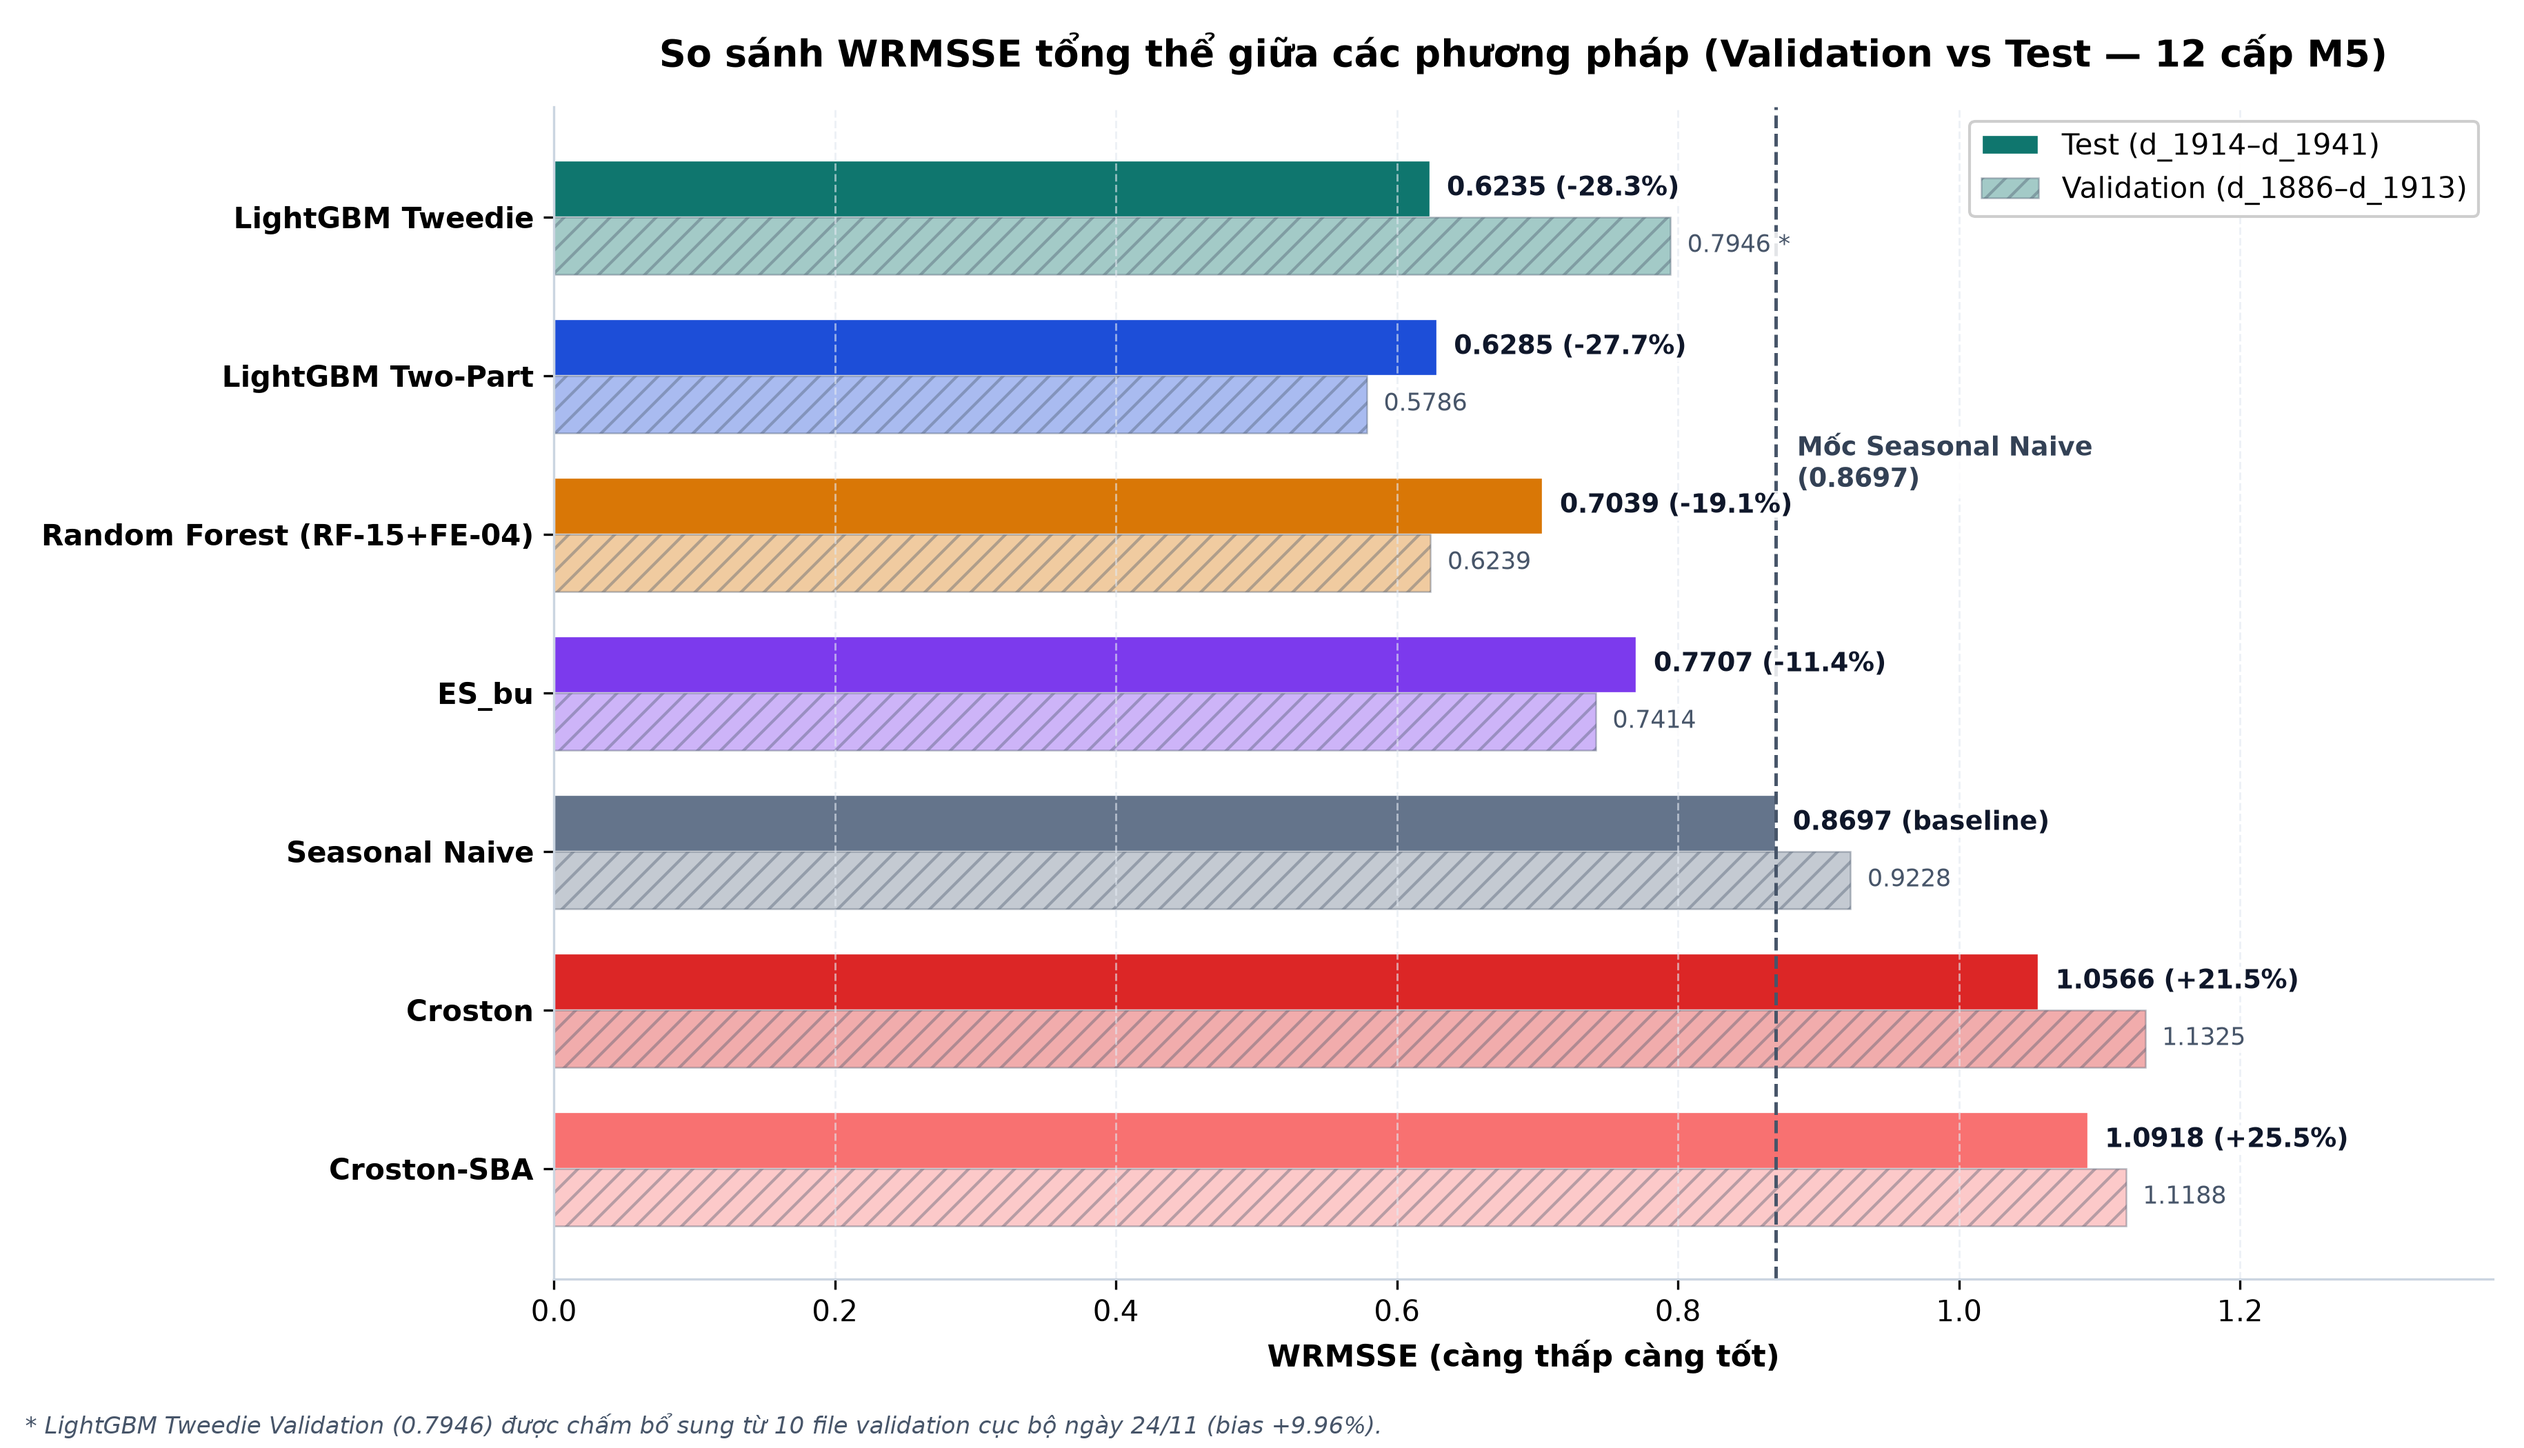
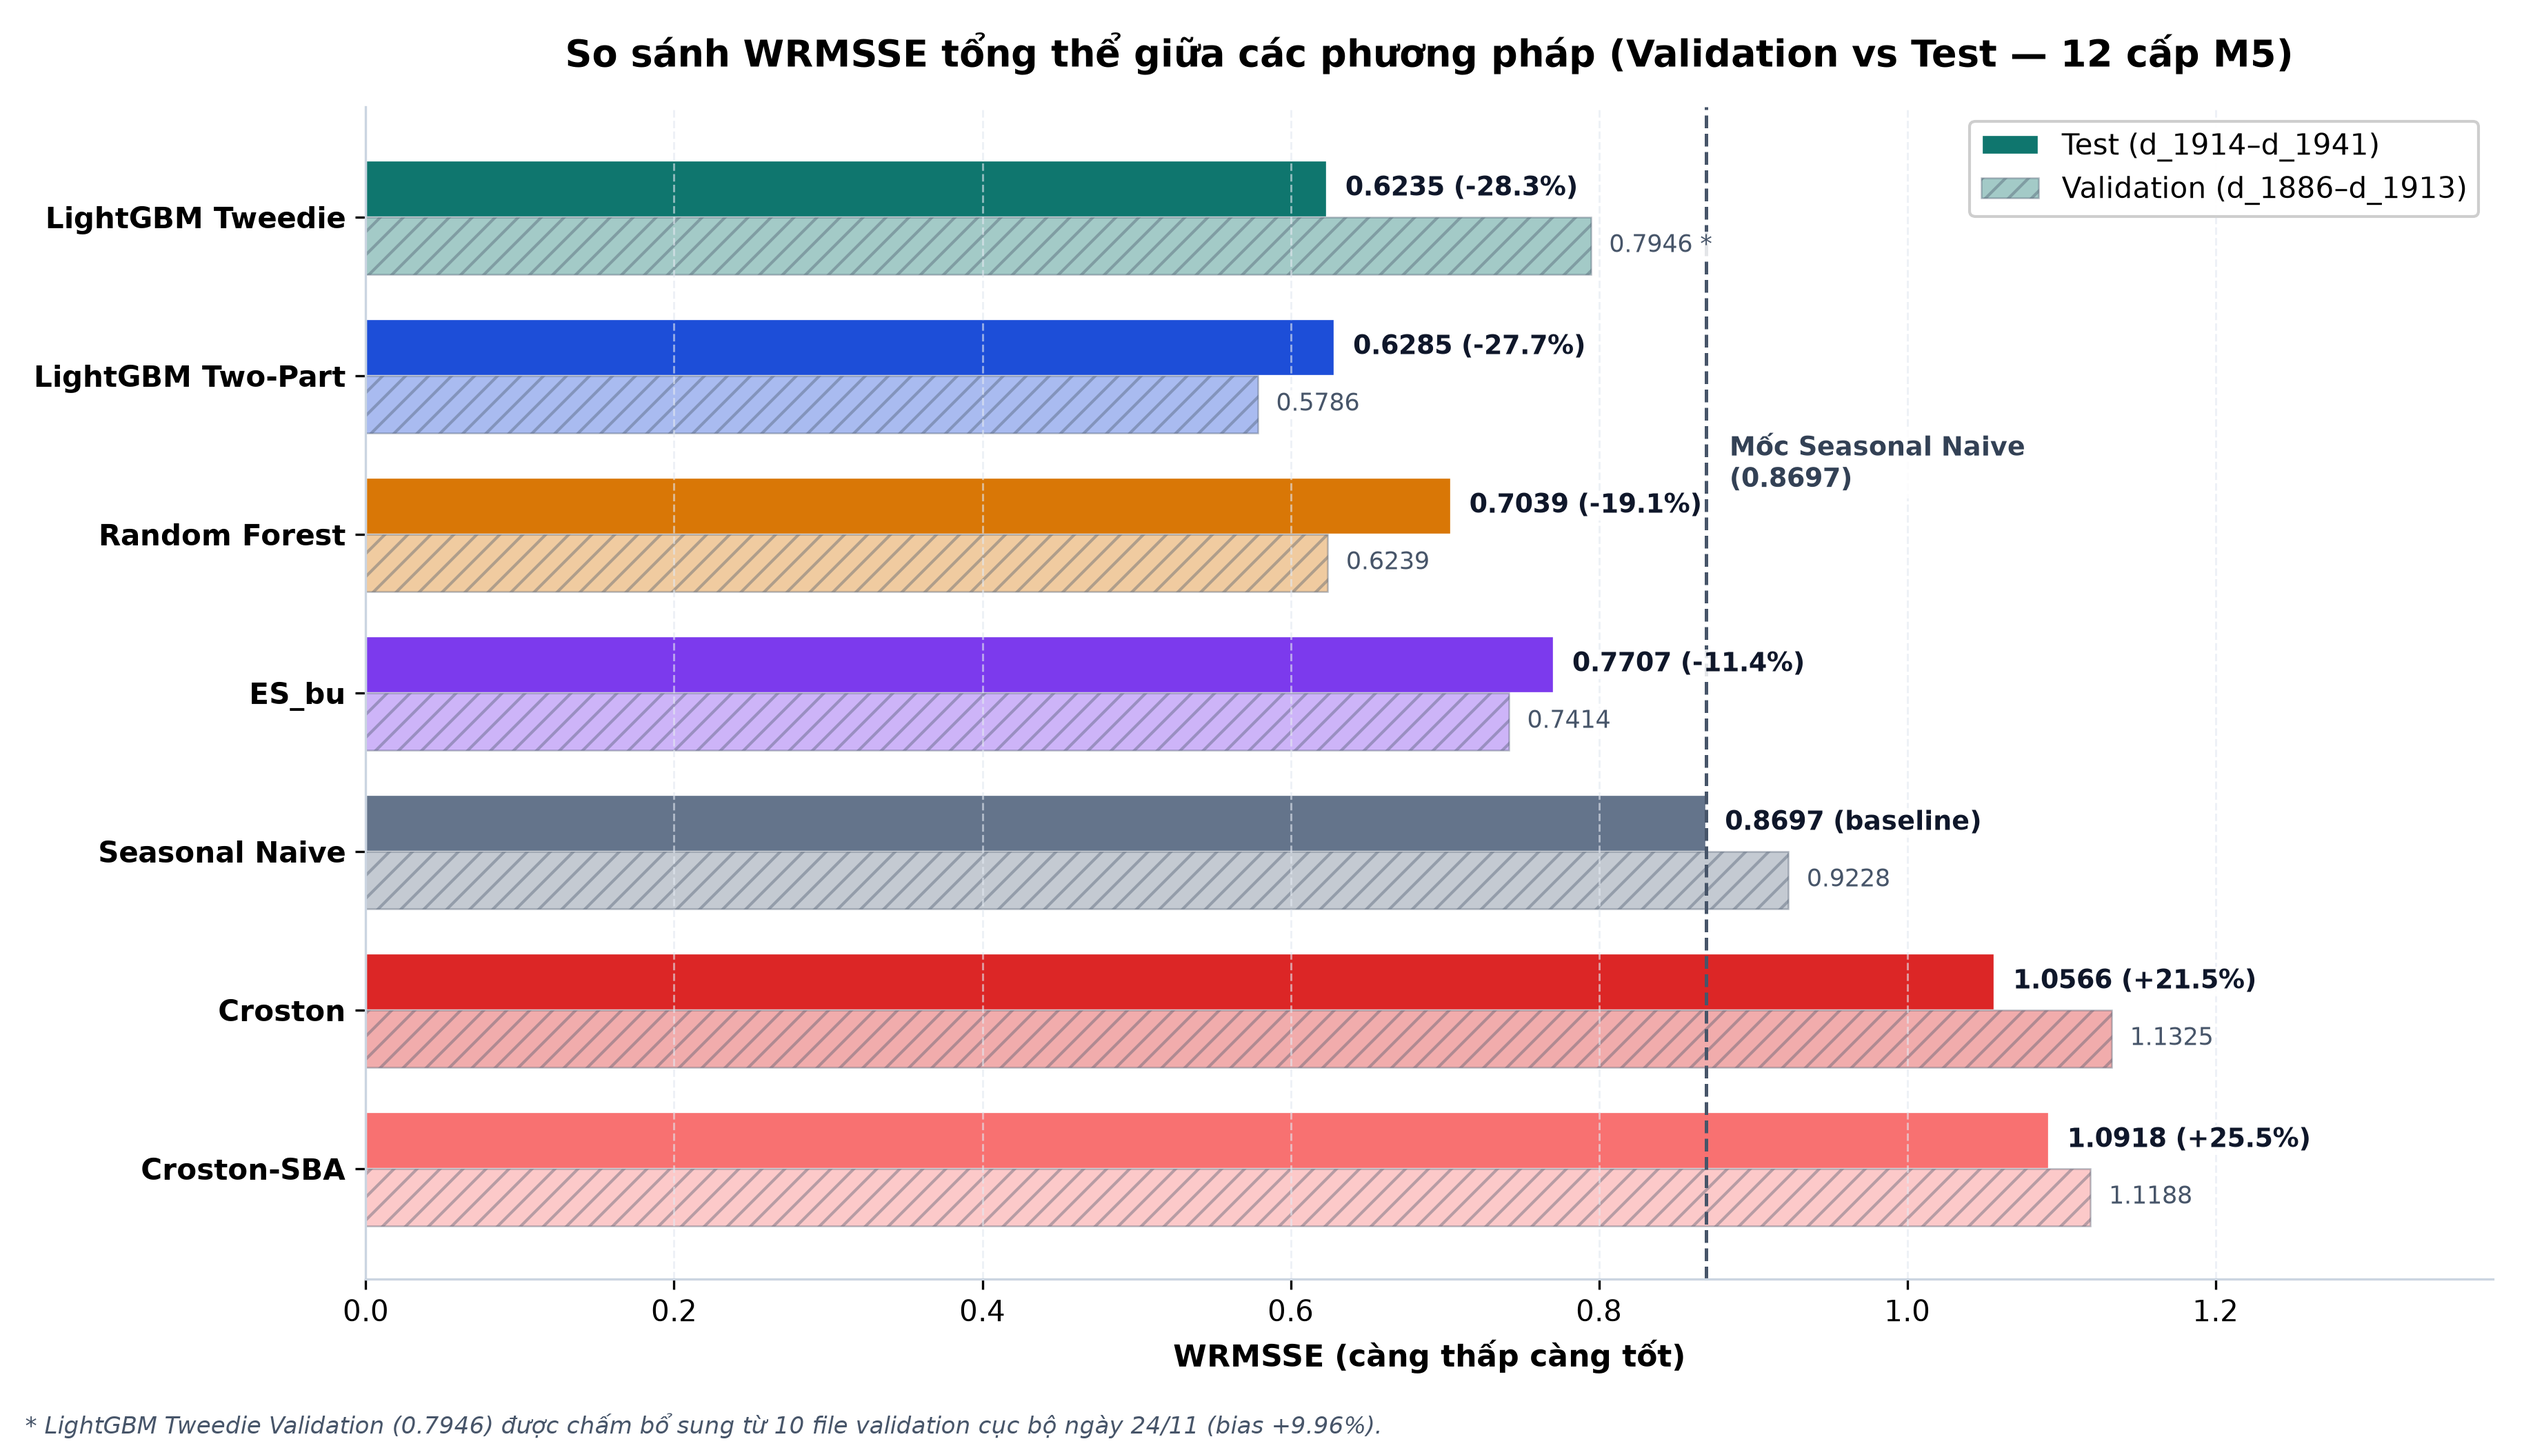
Rename Random Forest (RF-15+FE-04) label to Random Forest in comparison

diff --git a/comparison/generate_comparison_charts.py b/comparison/generate_comparison_charts.py
@@ -29,7 +29,7 @@ plt.rcParams.update({
 MODEL_COLORS = {
     "LightGBM Tweedie": "#0F766E",
     "LightGBM Two-Part": "#1D4ED8",
-    "Random Forest (RF-15+FE-04)": "#D97706",
+    "Random Forest": "#D97706",
     "ES_bu": "#7C3AED",
     "Seasonal Naive": "#64748B",
     "Croston": "#DC2626",
@@ -161,7 +161,7 @@ def load_all_metrics():
             "bias_pct": float(c7e_tst.bias_pct),
         },
         {
-            "model": "Random Forest (RF-15+FE-04)",
+            "model": "Random Forest",
             "group": "ML",
             "wrmsse_val": rf_val,
             "val_note": "published",
@@ -252,7 +252,7 @@ def load_all_metrics():
     lvl_series = {
         "LightGBM Tweedie": tw_levels.set_index("level")["weighted_RMSSE"],
         "LightGBM Two-Part": tp_levels.set_index("level")["weighted_RMSSE"],
-        "Random Forest (RF-15+FE-04)": rf_levels[rf_levels.model == "random_forest"].set_index("level")["wrmsse_within_level"],
+        "Random Forest": rf_levels[rf_levels.model == "random_forest"].set_index("level")["wrmsse_within_level"],
         "ES_bu": bm_levels[(bm_levels.model == "ES_bu") & (bm_levels.split == "test")].set_index("level")["weighted_RMSSE"],
         "Seasonal Naive": rf_levels[rf_levels.model == "seasonal_naive"].set_index("level")["wrmsse_within_level"],
         "Croston-SBA": bm_levels[(bm_levels.model == "Croston_SBA") & (bm_levels.split == "test")].set_index("level")["weighted_RMSSE"],
@@ -273,7 +273,7 @@ def load_all_metrics():
         "date": rf_daily["date"],
         "weekday": rf_daily["weekday"],
         "actual": rf_daily["actual_sales"],
-        "Random Forest (RF-15+FE-04)": rf_daily["random_forest_forecast"],
+        "Random Forest": rf_daily["random_forest_forecast"],
         "Seasonal Naive": rf_daily["seasonal_naive_forecast"],
     })
     daily_df = daily_df.merge(tp_daily[["target_day", "predicted"]].rename(columns={"predicted": "LightGBM Two-Part"}), on="target_day")
@@ -285,7 +285,7 @@ def load_all_metrics():
     # Store bias (%)
     store_rows = []
     for _, r in rf_store.iterrows():
-        store_rows.append({"store_id": r["store_id"], "model": "Random Forest (RF-15+FE-04)", "actual": r["actual_sales"], "forecast": r["random_forest_forecast"], "bias_pct": r["rf_bias_pct"]})
+        store_rows.append({"store_id": r["store_id"], "model": "Random Forest", "actual": r["actual_sales"], "forecast": r["random_forest_forecast"], "bias_pct": r["rf_bias_pct"]})
         store_rows.append({"store_id": r["store_id"], "model": "Seasonal Naive", "actual": r["actual_sales"], "forecast": r["seasonal_naive_forecast"], "bias_pct": r["sn_bias_pct"]})
     for _, r in tp_store.iterrows():
         store_rows.append({"store_id": r["store_id"], "model": "LightGBM Two-Part", "actual": r["actual"], "forecast": r["predicted"], "bias_pct": r["bias_pct"]})
@@ -317,7 +317,7 @@ def load_all_metrics():
     )
     rf_bias_cat = rf_cat.set_index("cat_id")
     for m_key, m_label, bias_col in [
-        ("random_forest", "Random Forest (RF-15+FE-04)", "rf_bias_pct"),
+        ("random_forest", "Random Forest", "rf_bias_pct"),
         ("seasonal_naive", "Seasonal Naive", "sn_bias_pct"),
     ]:
         sub = rf_l12[rf_l12.model == m_key]
@@ -411,7 +411,7 @@ def plot_chart_2(levels_df: pd.DataFrame):
     markers = {
         "LightGBM Tweedie": "o",
         "LightGBM Two-Part": "s",
-        "Random Forest (RF-15+FE-04)": "^",
+        "Random Forest": "^",
         "ES_bu": "D",
         "Seasonal Naive": "X",
         "Croston-SBA": "v",
@@ -427,7 +427,7 @@ def plot_chart_2(levels_df: pd.DataFrame):
     for col, dy1, dy12 in [
         ("LightGBM Tweedie", -0.015, 0.006),
         ("LightGBM Two-Part", 0.012, -0.018),
-        ("Random Forest (RF-15+FE-04)", 0.0, -0.003),
+        ("Random Forest", 0.0, -0.003),
         ("ES_bu", 0.0, 0.032),
         ("Seasonal Naive", 0.0, 0.0),
         ("Croston-SBA", 0.0, 0.020),
@@ -436,8 +436,8 @@ def plot_chart_2(levels_df: pd.DataFrame):
         v12 = levels_df[col].iloc[-1]
         ax.text(1 - 0.12, v1 + dy1, f"{v1:.3f}", ha="right", va="center",
                 fontsize=8, fontweight="bold", color=MODEL_COLORS[col])
-        lbl12 = f"{v12:.3f}" if col not in ("Random Forest (RF-15+FE-04)", "Croston-SBA") else (
-            f"RF {v12:.3f}" if col == "Random Forest (RF-15+FE-04)" else f"SBA {v12:.3f}"
+        lbl12 = f"{v12:.3f}" if col not in ("Random Forest", "Croston-SBA") else (
+            f"RF {v12:.3f}" if col == "Random Forest" else f"SBA {v12:.3f}"
         )
         ax.text(12 + 0.12, v12 + dy12, lbl12, ha="left", va="center",
                 fontsize=8.2, fontweight="bold", color=MODEL_COLORS[col])
@@ -573,7 +573,7 @@ def plot_chart_5(summary: pd.DataFrame):
     short_names = {
         "LightGBM Tweedie": "LightGBM Tweedie",
         "LightGBM Two-Part": "C7_EVENTS",
-        "Random Forest (RF-15+FE-04)": "Random Forest",
+        "Random Forest": "Random Forest",
         "ES_bu": "ES_bu",
         "Seasonal Naive": "Seasonal Naive",
         "Croston": "Croston",
@@ -582,7 +582,7 @@ def plot_chart_5(summary: pd.DataFrame):
     label_xy = {
         "LightGBM Tweedie": (0.41, 0.875),
         "LightGBM Two-Part": (0.44, 0.785),
-        "Random Forest (RF-15+FE-04)": (0.56, 0.905),
+        "Random Forest": (0.56, 0.905),
         "ES_bu": (0.72, 0.925),
         "Seasonal Naive": (0.78, 1.105),
         "Croston": (1.10, 0.905),
@@ -658,7 +658,7 @@ def plot_chart_6(daily_df: pd.DataFrame):
     for col, ls in [
         ("LightGBM Tweedie", "-"),
         ("LightGBM Two-Part", "-"),
-        ("Random Forest (RF-15+FE-04)", "-"),
+        ("Random Forest", "-"),
         ("ES_bu", "--"),
         ("Seasonal Naive", ":"),
         ("Croston-SBA", "-."),
@@ -688,7 +688,7 @@ def plot_chart_7(store_df: pd.DataFrame):
     models = [
         "LightGBM Tweedie",
         "LightGBM Two-Part",
-        "Random Forest (RF-15+FE-04)",
+        "Random Forest",
         "ES_bu",
         "Seasonal Naive",
         "Croston-SBA",
@@ -741,7 +741,7 @@ def plot_chart_8(cat_df: pd.DataFrame):
     models = [
         "LightGBM Tweedie",
         "LightGBM Two-Part",
-        "Random Forest (RF-15+FE-04)",
+        "Random Forest",
         "ES_bu",
         "Seasonal Naive",
         "Croston-SBA",

diff --git a/comparison/verify_comparison_data.py b/comparison/verify_comparison_data.py
@@ -37,7 +37,7 @@ def test_summary_table_matches_published_sources():
     # Exact published Test WRMSSE checks
     np.testing.assert_allclose(s.loc["LightGBM Tweedie", "wrmsse_test"], 0.6234560168189278, atol=1e-12)
     np.testing.assert_allclose(s.loc["LightGBM Two-Part", "wrmsse_test"], 0.6284865669601195, atol=1e-12)
-    np.testing.assert_allclose(s.loc["Random Forest (RF-15+FE-04)", "wrmsse_test"], 0.7039124143420078, atol=1e-12)
+    np.testing.assert_allclose(s.loc["Random Forest", "wrmsse_test"], 0.7039124143420078, atol=1e-12)
     np.testing.assert_allclose(s.loc["ES_bu", "wrmsse_test"], 0.770677, atol=1e-6)
     np.testing.assert_allclose(s.loc["Seasonal Naive", "wrmsse_test"], 0.8697007023310609, atol=1e-6)
 
@@ -52,7 +52,7 @@ def test_daily_and_store_totals_reconcile_to_summary():
     for m in [
         "LightGBM Tweedie",
         "LightGBM Two-Part",
-        "Random Forest (RF-15+FE-04)",
+        "Random Forest",
         "ES_bu",
         "Seasonal Naive",
         "Croston-SBA",
